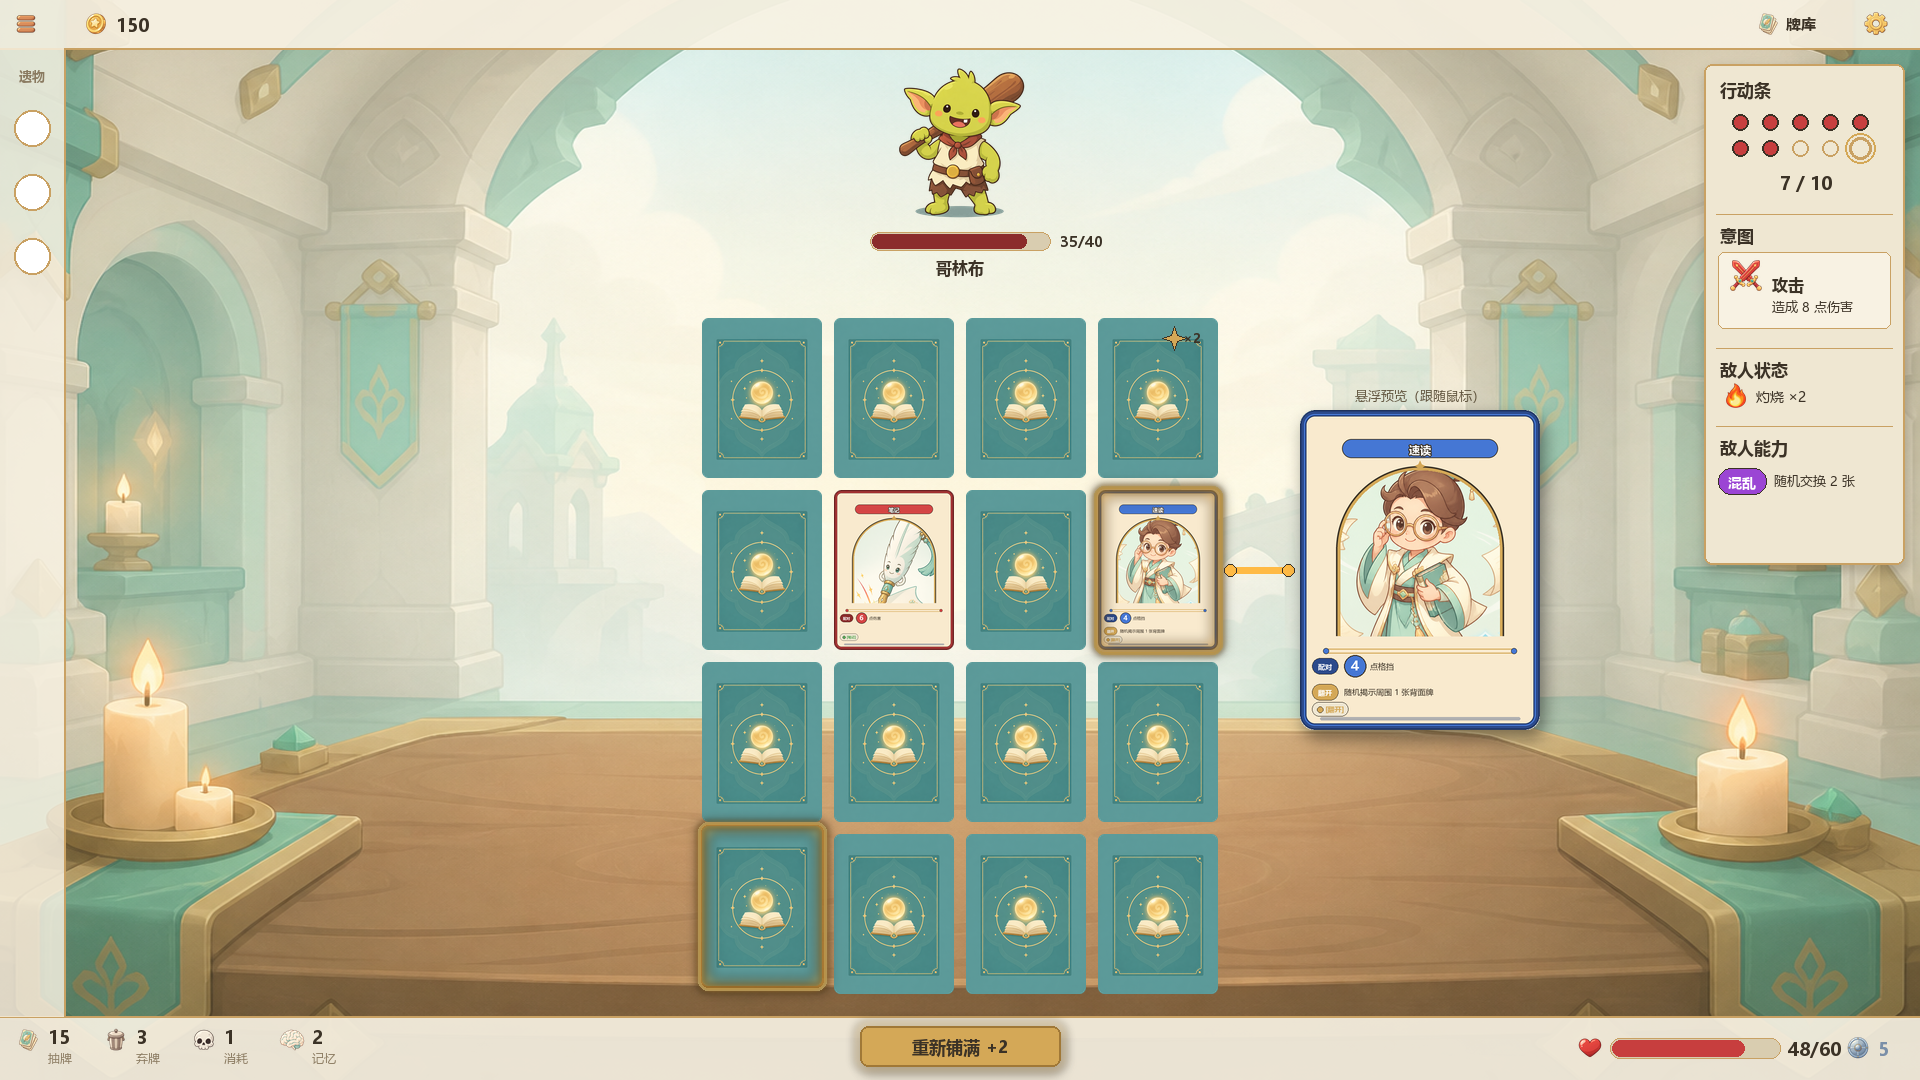
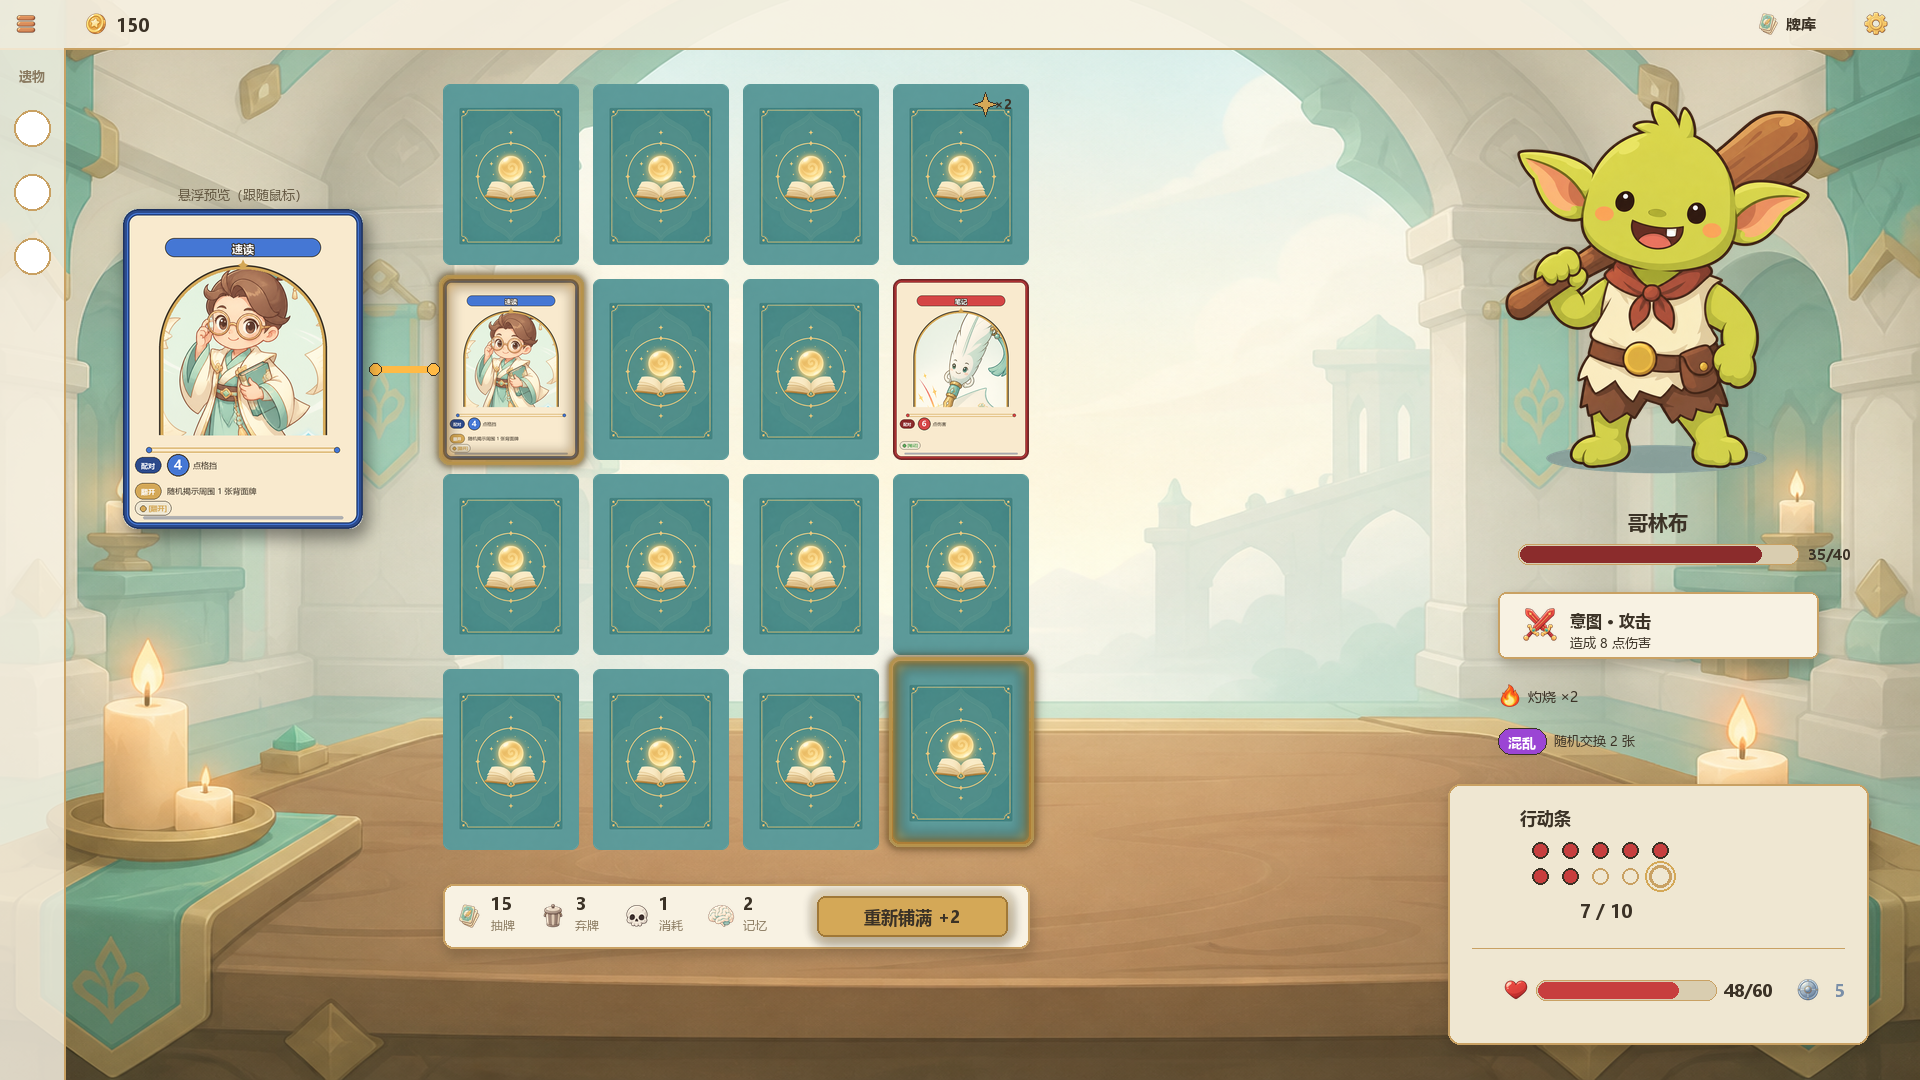
art: 战斗示意图S03重构为左右结构（预览区待拍板）——左=玩家牌桌（4×4网格放大120×160→136×181间距12→14提升记牌可读性+牌桌托盘：四堆计数与'重新铺满+2'主按钮托在网格下方与网格同宽对齐，原全局底栏取消）；右=敌人展示（哥林布立绘168→420px大立绘+名字+血条+白底意图卡+灼烧/混乱状态行聚合一块）+下半面板（行动条7/10+玩家血量48/60格挡5）；悬浮预览改向左弹出（橙金引导线两端圆点约60px），悬停发光卡改第2行最左列正面牌、背面悬停卡移右下角；bottombar()重写为deck_tray(img,box)。vision两轮检查通过（结构成立/无

diff --git a/.agents/skills/mh-art/scripts/ui_mockup.py b/.agents/skills/mh-art/scripts/ui_mockup.py
@@ -176,35 +176,25 @@ def topbar(img, title=None):
         text(d, (W // 2, 24), title, size=18, fill=INK, anchor="mm")
 
 
-def bottombar(img):
-    """战斗底栏 64px（09 §6.6）：四堆计数 | 重新铺满 | 血量/格挡。"""
-    ov = Image.new("RGBA", img.size, (0, 0, 0, 0))
-    d = ImageDraw.Draw(ov)
-    d.rectangle([0, H - 64, W, H], fill=BRIGHT[:3] + (232,))
-    d.line([0, H - 64, W, H - 64], fill=BORDER, width=2)
-    img.alpha_composite(ov)
+def deck_tray(img, box):
+    """牌桌托盘（09 §6.6 左右结构版）：四堆计数 + 重新铺满主按钮，托在网格下方。"""
+    x0, y0, x1, y1 = box
+    panel(img, box, 10, fill=BRIGHT)
     d = ImageDraw.Draw(img)
-    x = 28
+    x = x0 + 26
     for name, num, cap in (("icon_deck.png", "15", "抽牌"),
                            ("icon_discard.png", "3", "弃牌"),
                            ("icon_exhaust.png", "1", "消耗"),
                            ("icon_memory.png", "2", "记忆")):
-        icon(img, name, x, H - 40, 26)
-        text(d, (x + 20, H - 44), num, size=18, anchor="lm")
-        text(d, (x + 20, H - 22), cap, size=12, fill=SUB, bold=False, anchor="lm")
-        x += 88
-    # 重新铺满（主按钮，居中；金光外晕提层级）
-    bw, bh = 200, 40
-    bb = [W // 2 - bw // 2, H - 54, W // 2 + bw // 2, H - 54 + bh]
-    glow_rect(img, bb, 8, color=GOLD, width=3)
+        icon(img, name, x, (y0 + y1) // 2, 28)
+        text(d, (x + 22, y0 + 19), num, size=17, anchor="lm")
+        text(d, (x + 22, y0 + 41), cap, size=12, fill=SUB, bold=False, anchor="lm")
+        x += 84
+    bw, bh = 190, 40
+    bb = [x1 - 22 - bw, (y0 + y1) // 2 - bh // 2, x1 - 22, (y0 + y1) // 2 + bh // 2]
+    glow_rect(img, bb, 8, width=3)
     panel(img, bb, 8, fill=GOLD, outline=(160, 120, 55, 255))
-    text(d, (W // 2, H - 34), "重新铺满 +2", size=17, anchor="mm")
-    # 玩家血量 + 格挡（右）
-    icon(img, "icon_hp.png", W - 330, H - 32, 26)
-    bar(d, W - 310, H - 42, 170, 20, 48 / 60, fill=RED)
-    text(d, (W - 132, H - 32), "48/60", size=18, anchor="lm")
-    icon(img, "icon_block.png", W - 62, H - 32, 26)
-    text(d, (W - 42, H - 32), "5", size=18, fill=BLOCKBLUE, anchor="lm")
+    text(d, (x1 - 22 - bw // 2, (y0 + y1) // 2), "重新铺满 +2", size=17, anchor="mm")
 
 
 def actionbar(img, x, y):
@@ -227,58 +217,28 @@ def actionbar(img, x, y):
 
 
 def s03_battle():
-    """S03 战斗界面（09 §6）：顶栏/敌人/4×4 网格/右侧面板/底栏 + 悬浮预览。"""
+    """S03 战斗界面（09 §6，左右结构）：左=牌桌（4×4 网格放大 136×181 + 堆计数
+    托盘），右=敌人展示（大立绘/血条/意图/状态）+ 行动条 + 玩家状态；无全局底栏。"""
     base = asset("bg_battle.png") or Image.new("RGBA", (W, H), CREAM)
     img = base.copy()
     topbar(img)
-    bottombar(img)
 
-    # 左侧遗物竖排（64px 宽）
+    # 左侧遗物竖排（64px 宽，通高）
     ov = Image.new("RGBA", img.size, (0, 0, 0, 0))
-    ImageDraw.Draw(ov).rectangle([0, 48, 64, H - 64], fill=BRIGHT[:3] + (210,))
+    ImageDraw.Draw(ov).rectangle([0, 48, 64, H], fill=BRIGHT[:3] + (210,))
     img.alpha_composite(ov)
     d = ImageDraw.Draw(img)
-    d.line([64, 48, 64, H - 64], fill=BORDER, width=2)
+    d.line([64, 48, 64, H], fill=BORDER, width=2)
     text(d, (32, 76), "遗物", size=13, fill=SUB, anchor="mm")
     for i in range(3):
         d.ellipse([14, 110 + i * 64, 50, 146 + i * 64],
                   fill=(255, 255, 255, 90), outline=BORDER, width=2)
 
-    # 敌人区（顶部中央）：整体上收，血量数字移条侧，为下方网格留呼吸间距
-    goblin = asset("enemy_goblin.png")
-    if goblin:
-        paste_fit(img, goblin, W // 2, 142, 168)
-    d = ImageDraw.Draw(img)
-    bar(d, W // 2 - 90, 232, 180, 18, 35 / 40, fill=DARKRED)
-    text(d, (W // 2 + 100, 241), "35/40", size=14, anchor="lm")
-    text(d, (W // 2, 268), "哥林布", size=16, anchor="mm")
-
-    # 右侧信息面板（09 §6.5）
-    px, py, pw = W - 216, 64, 200
-    panel(img, [px, py, px + pw, py + 500])
-    actionbar(img, px + 16, py + 14)
-    d = ImageDraw.Draw(img)
-    d.line([px + 12, py + 150, px + pw - 12, py + 150], fill=BORDER, width=1)
-    text(d, (px + 16, py + 160), "意图", size=17)
-    panel(img, [px + 14, py + 188, px + pw - 14, py + 264], 6,
-          fill=BRIGHT, outline=BORDER, width=1, shadow=False)
-    icon(img, "icon_intent_attack.png", px + 42, py + 212, 36, fallback_fill=RED)
-    text(d, (px + 68, py + 210), "攻击", size=16)
-    text(d, (px + 68, py + 234), "造成 8 点伤害", size=13, bold=False)
-    d.line([px + 12, py + 284, px + pw - 12, py + 284], fill=BORDER, width=1)
-    text(d, (px + 16, py + 294), "敌人状态", size=17)
-    icon(img, "icon_status_burn.png", px + 32, py + 332, 26, fallback_fill=BURN)
-    text(d, (px + 52, py + 332), "灼烧 ×2", size=14, bold=False, anchor="lm")
-    d.line([px + 12, py + 362, px + pw - 12, py + 362], fill=BORDER, width=1)
-    text(d, (px + 16, py + 372), "敌人能力", size=17)
-    x2 = chip(d, px + 14, py + 404, "混乱", PURPLE)
-    text(d, (x2 + 8, py + 417), "随机交换 2 张", size=13, bold=False, anchor="lm")
-
-    # 4×4 卡牌网格（09 §6.3）：516×676 居中；gy 上收使底边与底栏留 22px 间距
-    gx, gy, cw, ch, gap = 702, 318, 120, 160, 12
-    faceup = {(1, 1): "cardframe_attack.png", (1, 3): "cardframe_skill.png"}
-    pv_src = (1, 3)          # 正面牌悬停：发光 + 右缘弹出预览（09 §6.7）
-    hover = (3, 0)          # 网格左下角背面牌悬停上浮（09 §9.1：上浮4px+边框发光）
+    # ---- 左区·牌桌：4×4 网格（136×181，卡面放大提升记牌可读性）----
+    gx, gy, cw, ch, gap = 443, 84, 136, 181, 14
+    faceup = {(1, 0): "cardframe_skill.png", (1, 3): "cardframe_attack.png"}
+    pv_src = (1, 0)          # 正面牌悬停：发光 + 左侧弹出预览（09 §6.7 跟随鼠标）
+    hover = (3, 3)           # 右下角背面牌悬停上浮（09 §9.1：上浮+边框发光）
     back = asset("cardback_universal.png")
     for row in range(4):
         for col in range(4):
@@ -289,9 +249,9 @@ def s03_battle():
             elif back is not None:
                 dy = -8 if (row, col) == hover else 0
                 img.alpha_composite(back.resize((cw, ch), Image.LANCZOS), (x, y + dy))
-    hx, hy = gx, gy + 3 * (ch + gap) - 8
+    hx, hy = gx + 3 * (cw + gap), gy + 3 * (ch + gap) - 8
     hover_glow(img, [hx - 4, hy - 4, hx + cw + 4, hy + ch + 4])
-    # 正面悬停卡发光（与悬浮预览卡配对表达；亮金宽晕，压过卡框自身蓝描边）
+    # 正面悬停卡发光（与悬浮预览卡配对表达）
     fx, fy = gx + pv_src[1] * (cw + gap), gy + pv_src[0] * (ch + gap)
     hover_glow(img, [fx - 4, fy - 4, fx + cw + 4, fy + ch + 4])
     # 标记角标：右上角金色 ✦×2（v1.20 增益化标记，仅层数不泄内容）
@@ -301,17 +261,48 @@ def s03_battle():
                (mx + cw - 32, my + 20), (mx + cw - 41, my + 17)], fill=GOLD, outline=INK)
     text(d, (mx + cw - 26, my + 20), "×2", size=13, anchor="mm")
 
-    # 悬浮预览卡（09 §6.7：240×320，跟随鼠标——示意表达为悬停卡右缘弹出+金线引导）
+    # 牌桌托盘：四堆计数 + 重新铺满（原全局底栏职能并入牌桌下方，与网格同宽对齐）
+    deck_tray(img, [443, 884, 1029, 948])
+
+    # ---- 右列·敌人展示（上）与行动/玩家状态（下）----
+    ex = 1658
+    goblin = asset("enemy_goblin.png")
+    if goblin:
+        paste_fit(img, goblin, ex, 285, 420)
+    d = ImageDraw.Draw(img)
+    text(d, (ex, 522), "哥林布", size=20, anchor="mm")
+    bar(d, ex - 140, 544, 280, 20, 35 / 40, fill=DARKRED)
+    text(d, (ex + 150, 554), "35/40", size=15, anchor="lm")
+    panel(img, [ex - 160, 592, ex + 160, 658], 8, fill=BRIGHT, width=2)
+    icon(img, "icon_intent_attack.png", ex - 118, 625, 38, fallback_fill=RED)
+    text(d, (ex - 88, 610), "意图 · 攻击", size=16)
+    text(d, (ex - 88, 634), "造成 8 点伤害", size=13, bold=False)
+    icon(img, "icon_status_burn.png", ex - 148, 696, 24, fallback_fill=BURN)
+    text(d, (ex - 130, 696), "灼烧 ×2", size=14, bold=False, anchor="lm")
+    x2 = chip(d, ex - 160, 728, "混乱", PURPLE)
+    text(d, (x2 + 8, 741), "随机交换 2 张", size=13, bold=False, anchor="lm")
+
+    panel(img, [1448, 784, 1868, 1044], 12)
+    actionbar(img, 1520, 806)
+    d = ImageDraw.Draw(img)
+    d.line([1472, 948, 1844, 948], fill=BORDER, width=1)
+    icon(img, "icon_hp.png", 1516, 990, 26)
+    bar(d, 1536, 980, 180, 20, 48 / 60, fill=RED)
+    text(d, (1724, 990), "48/60", size=17, anchor="lm")
+    icon(img, "icon_block.png", 1808, 990, 26)
+    text(d, (1834, 990), "5", size=17, fill=BLOCKBLUE, anchor="lm")
+
+    # 悬浮预览卡（09 §6.7：240×320，跟随鼠标——示意表达为悬停卡左缘弹出+金线引导）
     pv = asset("cardframe_skill.png")
     if pv:
         cy = fy + ch // 2
-        pxv, pyv = 1300, cy - 160
+        pxv, pyv = fx - 320, cy - 160
         lc = (255, 186, 69, 255)   # 饱和橙金：米色浅底上保持对比
-        d.line([fx + cw + 12, cy, pxv - 12, cy], fill=lc, width=7)
-        for ex in (fx + cw + 12, pxv - 12):
-            d.ellipse([ex - 6, cy - 6, ex + 6, cy + 6], fill=lc, outline=INK, width=1)
-        text(d, (pxv + 120, pyv - 14), "悬浮预览（跟随鼠标）", size=13, fill=(96, 84, 62, 255),
-             bold=False, anchor="mm")
+        d.line([pxv + 252, cy, fx - 10, cy], fill=lc, width=7)
+        for exx in (pxv + 252, fx - 10):
+            d.ellipse([exx - 6, cy - 6, exx + 6, cy + 6], fill=lc, outline=INK, width=1)
+        text(d, (pxv + 120, pyv - 14), "悬浮预览（跟随鼠标）", size=13,
+             fill=(96, 84, 62, 255), bold=False, anchor="mm")
         drop_shadow(img, [pxv, pyv, pxv + 240, pyv + 320], r=14)
         img.alpha_composite(pv.resize((240, 320), Image.LANCZOS), (pxv, pyv))
 
